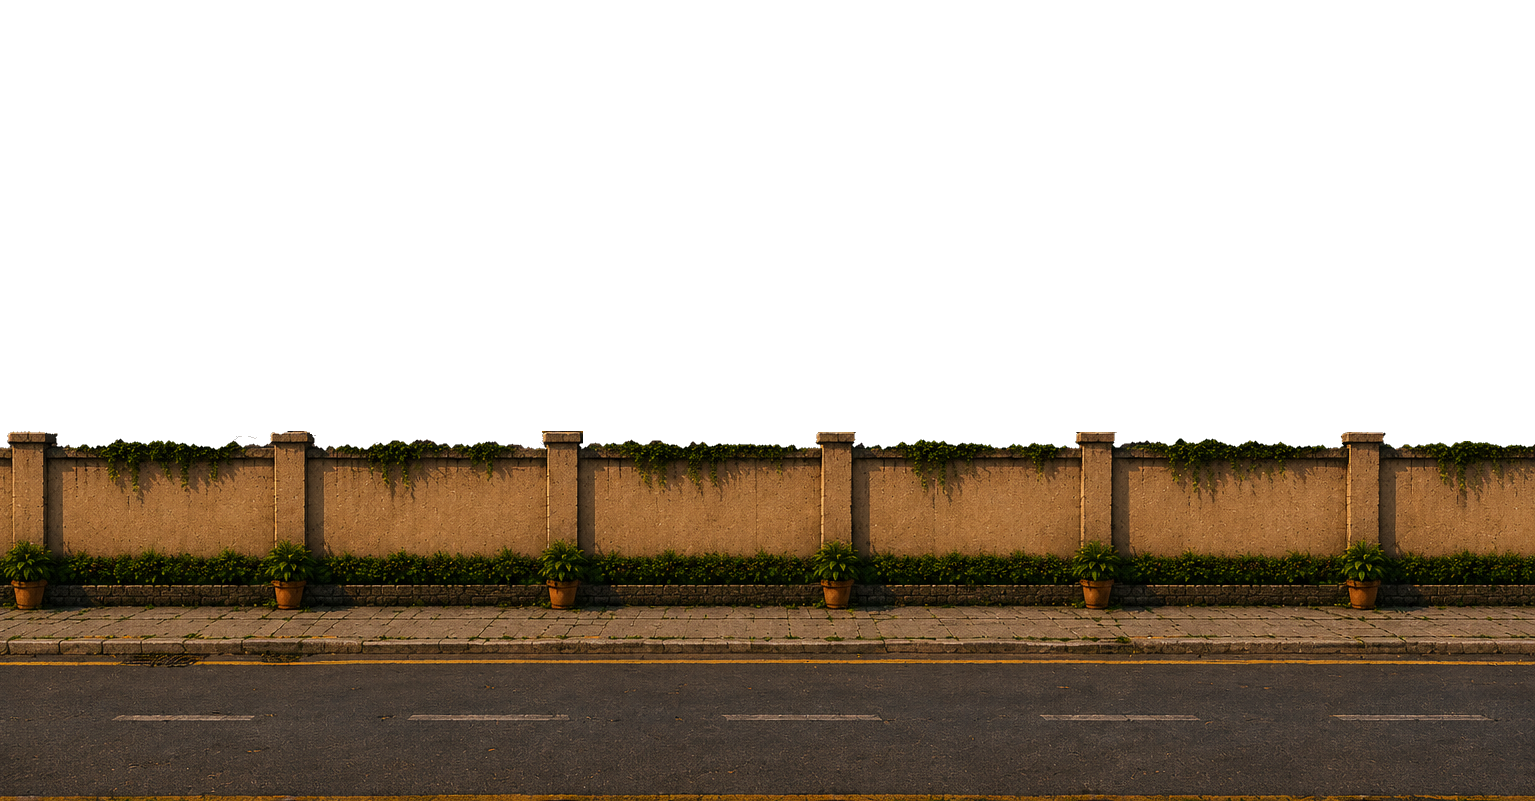
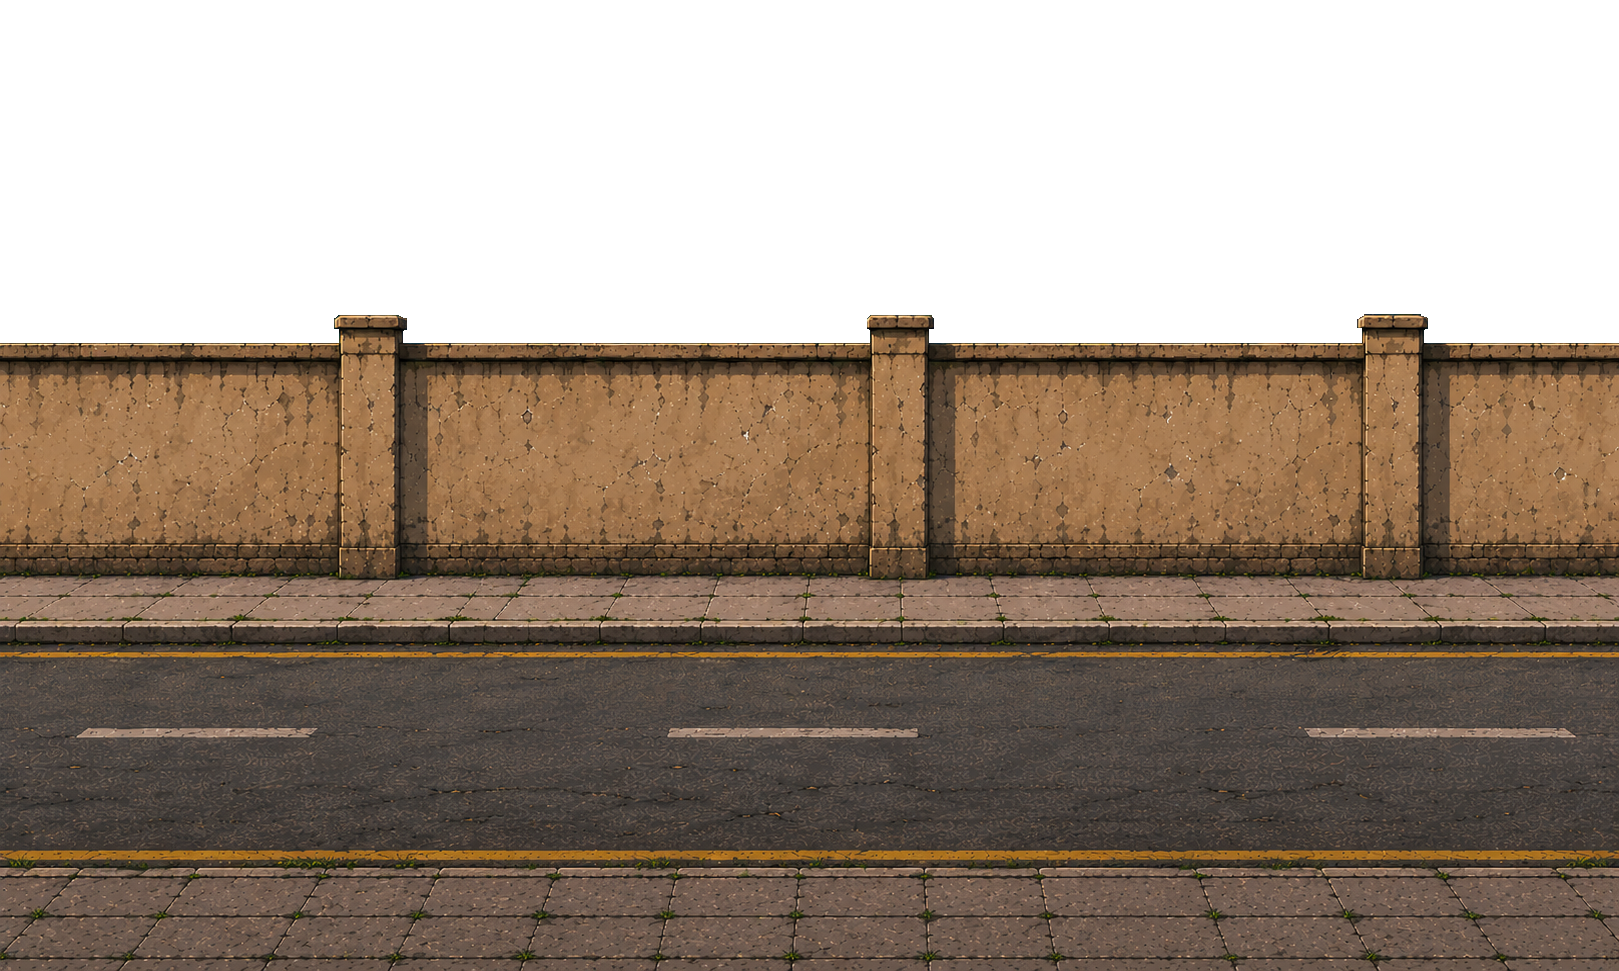
Adiciona gizmos da divisao calcada/asfalto no editor de cena
Trocar a arte de uma secao desalinhava a divisao calcada/asfalto: o CurbY
(linha de jogabilidade do meio-fio) so era editavel por numero, sem nenhuma
referencia visual sobre a cena, entao o ajuste era feito as cegas.

O DrawGizmos do ImGuiDevEditor agora desenha, para a secao selecionada: a linha
do CurbY com uma alca arrastavel, a borda do meio-fio (CurbY - CurbHeight), os
limites do corredor (topo/base) e a faixa da driveway. Arrastar a alca grava em
section.CurbY (limitado ao corredor), permitindo alinhar a colisao a arte
pintada e cobrindo todas as secoes via a selecao atual.

Inclui a nova arte do muro (WallInfinite) e o capao-raso.json ajustado.

diff --git a/Curitiba/Curitiba.Core/DevTools/ImGuiDevEditor.cs b/Curitiba/Curitiba.Core/DevTools/ImGuiDevEditor.cs
@@ -35,6 +35,7 @@ namespace Curitiba.Core.DevTools
         private int dragSetPiece = -1;
         private int dragSpawnPoint = -1;
         private bool dragEntry;
+        private bool dragCurb;
         private string tmjFile = "capao-raso.tmj";
 
         private static readonly string[] PersonalityNames = { "Aggressive", "Defensive", "Balanced", "Runner" };
@@ -585,8 +586,72 @@ namespace Curitiba.Core.DevTools
                 dl.AddText(new Num2(ec.X + 11f, ec.Y - 10f), colEntry, "Sofia [" + e.Mode + "]");
             }
 
+            DrawCorridorGizmos(dl, section);
+
             HandleDrag(spawns, section, section.SetPieces, section.SpawnPoints);
         }
+
+        /// <summary>
+        /// Draws the walkable corridor bounds, the curb (sidewalk/asphalt division) with a draggable
+        /// handle, the curb-height edge and the driveway ramp span for the selected section — so the
+        /// gameplay curb can be aligned to the painted art. Corridor top/bottom are global, shown as
+        /// reference only; CurbY/Driveway are per-section and edited here (handle) or in "Seção atual".
+        /// </summary>
+        private void DrawCorridorGizmos(ImDrawListPtr dl, SectionDef section)
+        {
+            CorridorDef corridor = ctx.Definition.Corridor;
+            Viewport vp = ctx.ScreenManager.PresentationViewport;
+            float left = vp.X;
+            float right = vp.X + vp.Width;
+
+            uint colCorridor = ImGui.GetColorU32(new Num4(0.6f, 0.6f, 0.65f, 0.7f));
+            uint colCurb = ImGui.GetColorU32(new Num4(1f, 0.55f, 0.15f, 1f));
+            uint colCurbDim = ImGui.GetColorU32(new Num4(1f, 0.55f, 0.15f, 0.5f));
+            uint colDrive = ImGui.GetColorU32(new Num4(0.45f, 1f, 0.85f, 0.9f));
+            uint colSel = ImGui.GetColorU32(new Num4(1f, 0.9f, 0.25f, 1f));
+
+            // Corridor top/bottom — walkable bounds (global; visual reference only).
+            float topY = WorldToScreen(0f, corridor.Top).Y;
+            float botY = WorldToScreen(0f, corridor.Bottom).Y;
+            dl.AddLine(new Num2(left, topY), new Num2(right, topY), colCorridor);
+            dl.AddText(new Num2(left + 6f, topY + 2f), colCorridor, "corredor topo");
+            dl.AddLine(new Num2(left, botY), new Num2(right, botY), colCorridor);
+            dl.AddText(new Num2(left + 6f, botY - 14f), colCorridor, "corredor base");
+
+            if (section.CurbY <= 0f)
+                return;
+
+            // Curb-height edge — top of the raised sidewalk.
+            if (corridor.CurbHeight > 0f)
+            {
+                float curbTopY = WorldToScreen(0f, section.CurbY - corridor.CurbHeight).Y;
+                dl.AddLine(new Num2(left, curbTopY), new Num2(right, curbTopY), colCurbDim);
+                dl.AddText(new Num2(right - 64f, curbTopY - 14f), colCurbDim, "meio-fio");
+            }
+
+            // Curb line — sidewalk/asphalt division, with draggable handle near the left edge.
+            Num2 handle = WorldToScreen(CurbHandleWorld(section));
+            dl.AddLine(new Num2(left, handle.Y), new Num2(right, handle.Y), colCurb, 2f);
+            dl.AddRectFilled(new Num2(handle.X - 6f, handle.Y - 6f), new Num2(handle.X + 6f, handle.Y + 6f),
+                dragCurb ? colSel : colCurb);
+            dl.AddText(new Num2(handle.X + 10f, handle.Y - 16f), colCurb,
+                "calçada/asfalto (CurbY=" + (int)section.CurbY + ")");
+
+            // Driveway ramp span (where the curb flattens — no jump required).
+            if (section.DrivewayRight > section.DrivewayLeft)
+            {
+                Num2 lTop = WorldToScreen(section.DrivewayLeft, corridor.Top);
+                Num2 lBot = WorldToScreen(section.DrivewayLeft, section.CurbY);
+                Num2 rTop = WorldToScreen(section.DrivewayRight, corridor.Top);
+                Num2 rBot = WorldToScreen(section.DrivewayRight, section.CurbY);
+                dl.AddLine(lTop, lBot, colDrive);
+                dl.AddLine(rTop, rBot, colDrive);
+                dl.AddText(new Num2(lTop.X + 4f, lTop.Y + 2f), colDrive, "driveway");
+            }
+        }
+
+        private Vector2 CurbHandleWorld(SectionDef section) =>
+            new Vector2(ctx.Arena.CameraX + 40f, section.CurbY);
 
         private void HandleDrag(List<SpawnDef> spawns, SectionDef section, List<SetPieceDef> pieces, List<SpawnPointDef> points)
         {
@@ -600,6 +665,7 @@ namespace Curitiba.Core.DevTools
                 dragSetPiece = -1;
                 dragSpawnPoint = -1;
                 dragEntry = false;
+                dragCurb = false;
                 float best = 14f;
                 if (spawns != null)
                 {
@@ -623,6 +689,11 @@ namespace Curitiba.Core.DevTools
                 }
                 float de = Dist(io.MousePos, WorldToScreen(EntryWorld(section)));
                 if (de < best) { best = de; dragEntry = true; dragSpawn = -1; dragSetPiece = -1; dragSpawnPoint = -1; }
+                if (section.CurbY > 0f)
+                {
+                    float dc = Dist(io.MousePos, WorldToScreen(CurbHandleWorld(section)));
+                    if (dc < best) { best = dc; dragCurb = true; dragSpawn = -1; dragSetPiece = -1; dragSpawnPoint = -1; dragEntry = false; }
+                }
             }
 
             bool down = ImGui.IsMouseDown(ImGuiMouseButton.Left);
@@ -657,6 +728,11 @@ namespace Curitiba.Core.DevTools
                     section.Entry.X = (float)Math.Round(w.X);
                     section.Entry.Y = (float)Math.Round(ClampLane(w.Y));
                 }
+                else if (dragCurb)
+                {
+                    section.CurbY = (float)Math.Round(
+                        MathHelper.Clamp(w.Y, ctx.Definition.Corridor.Top, ctx.Definition.Corridor.Bottom));
+                }
             }
             else
             {
@@ -664,6 +740,7 @@ namespace Curitiba.Core.DevTools
                 dragSetPiece = -1;
                 dragSpawnPoint = -1;
                 dragEntry = false;
+                dragCurb = false;
             }
         }
 